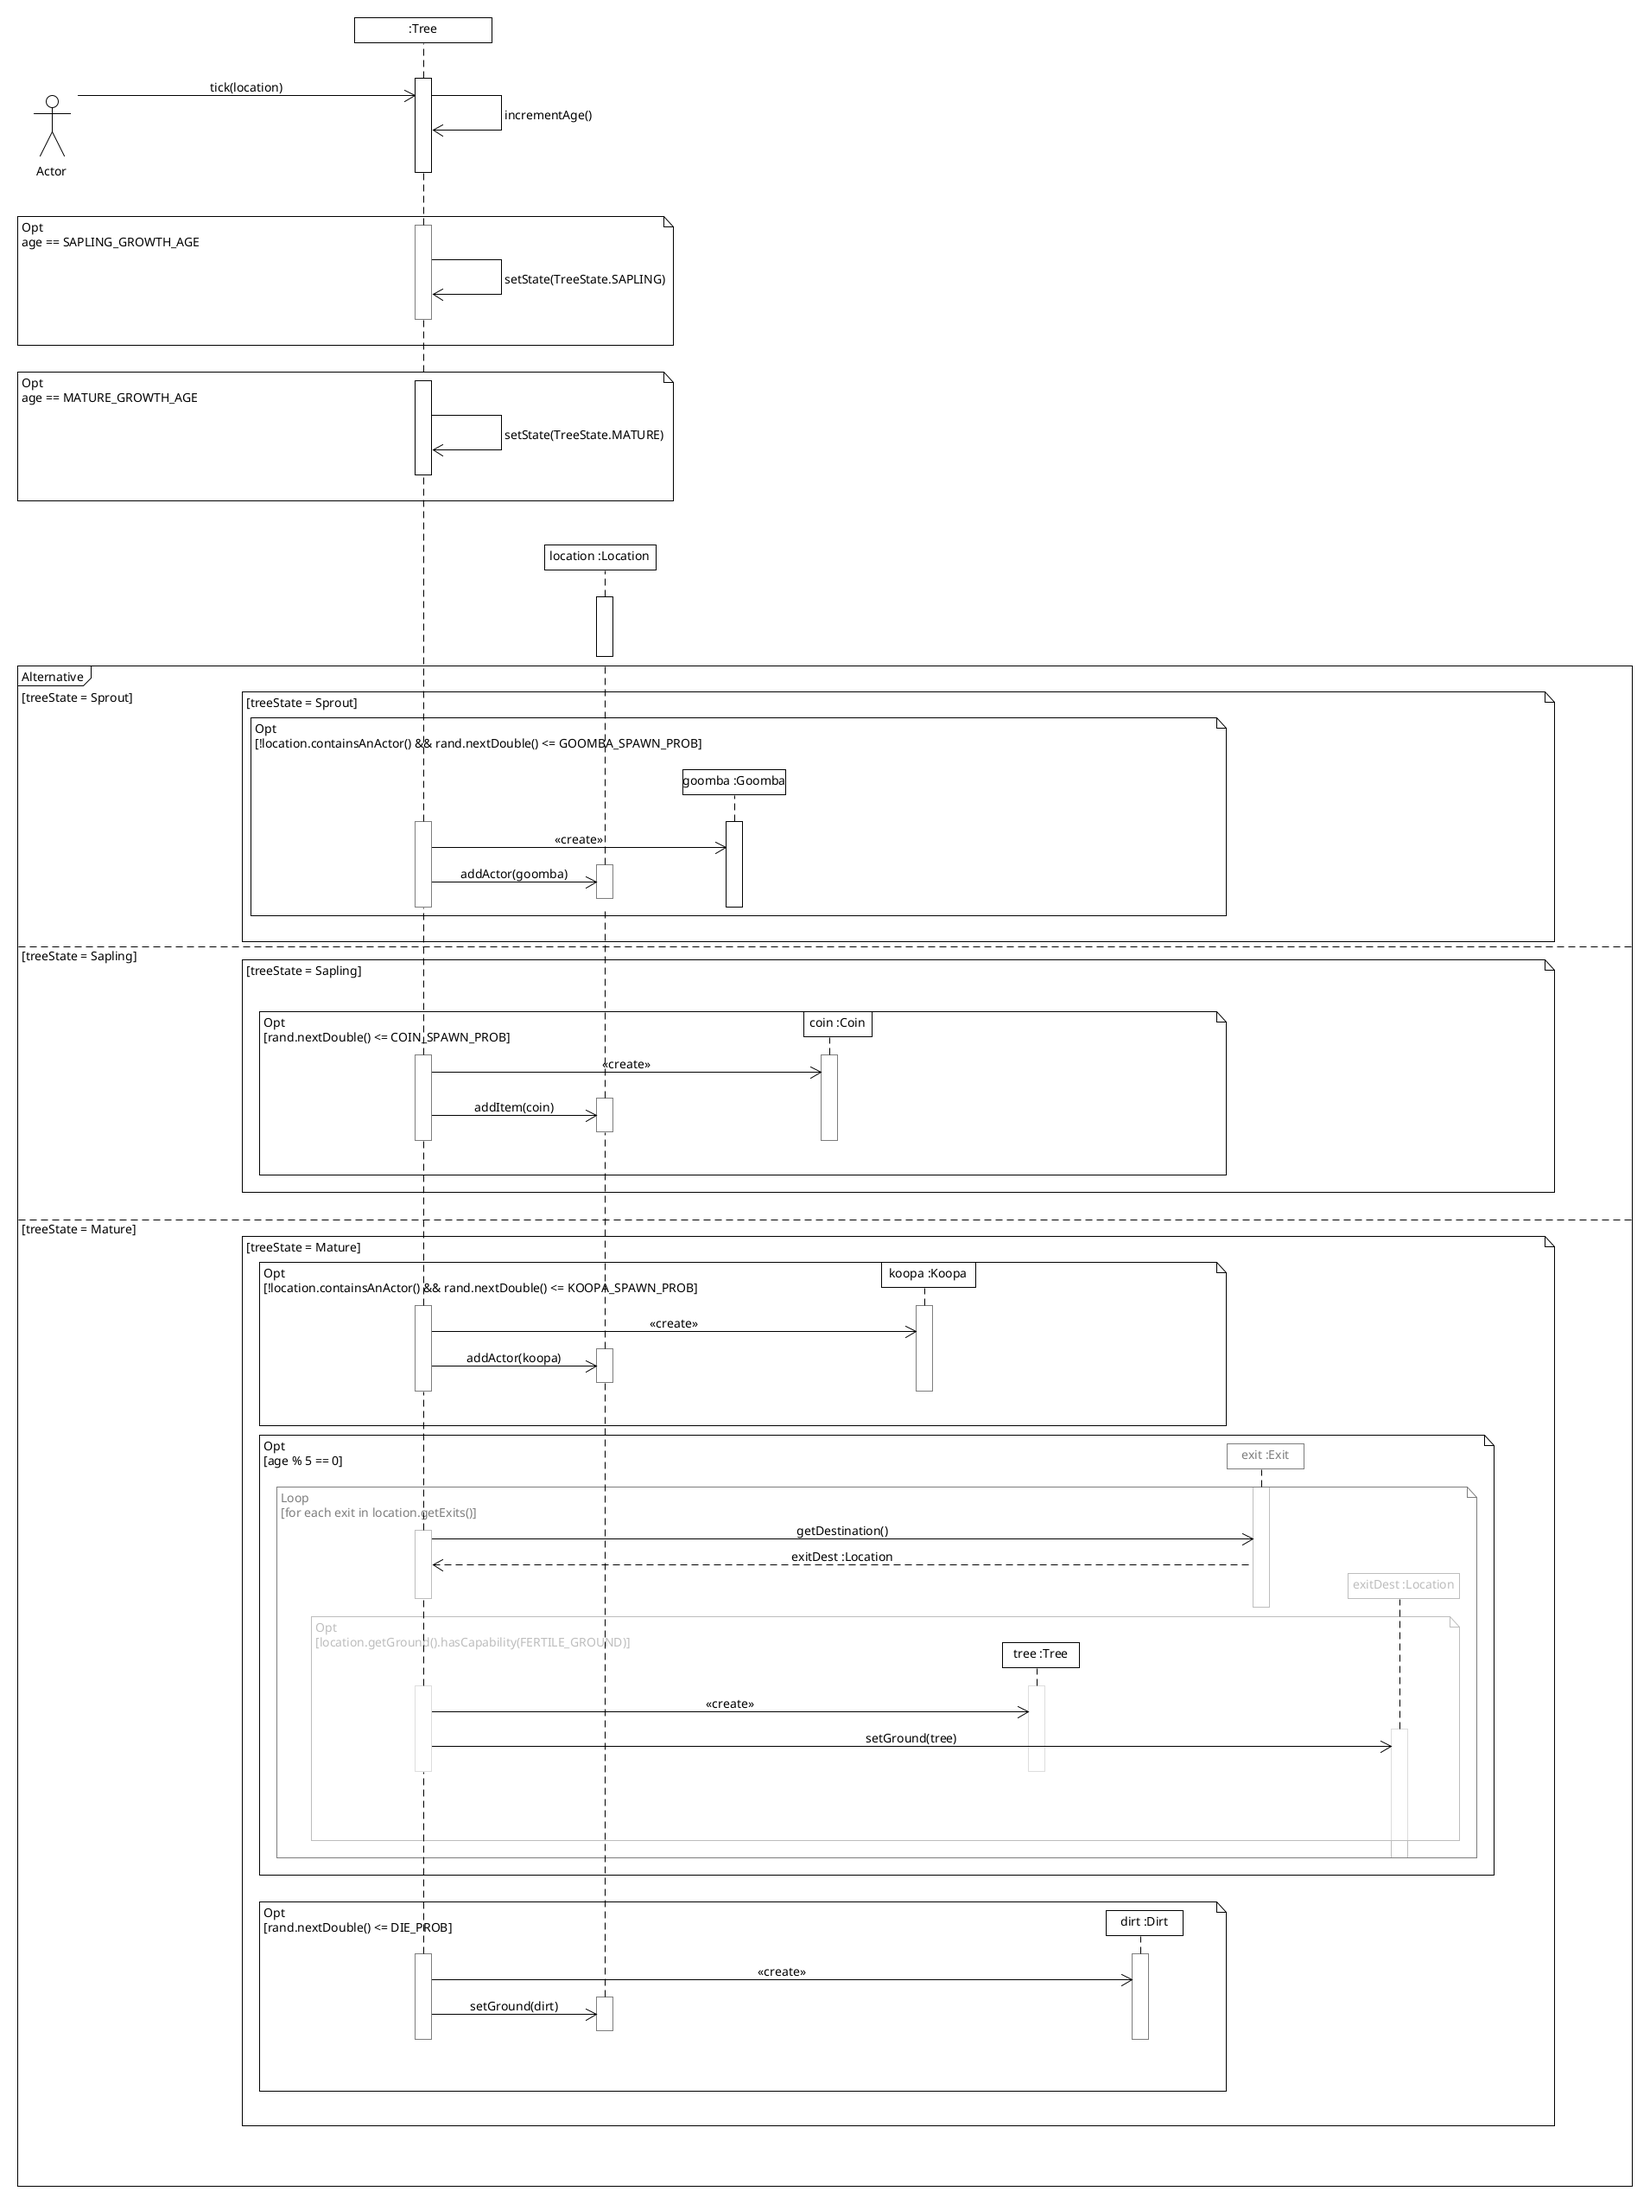
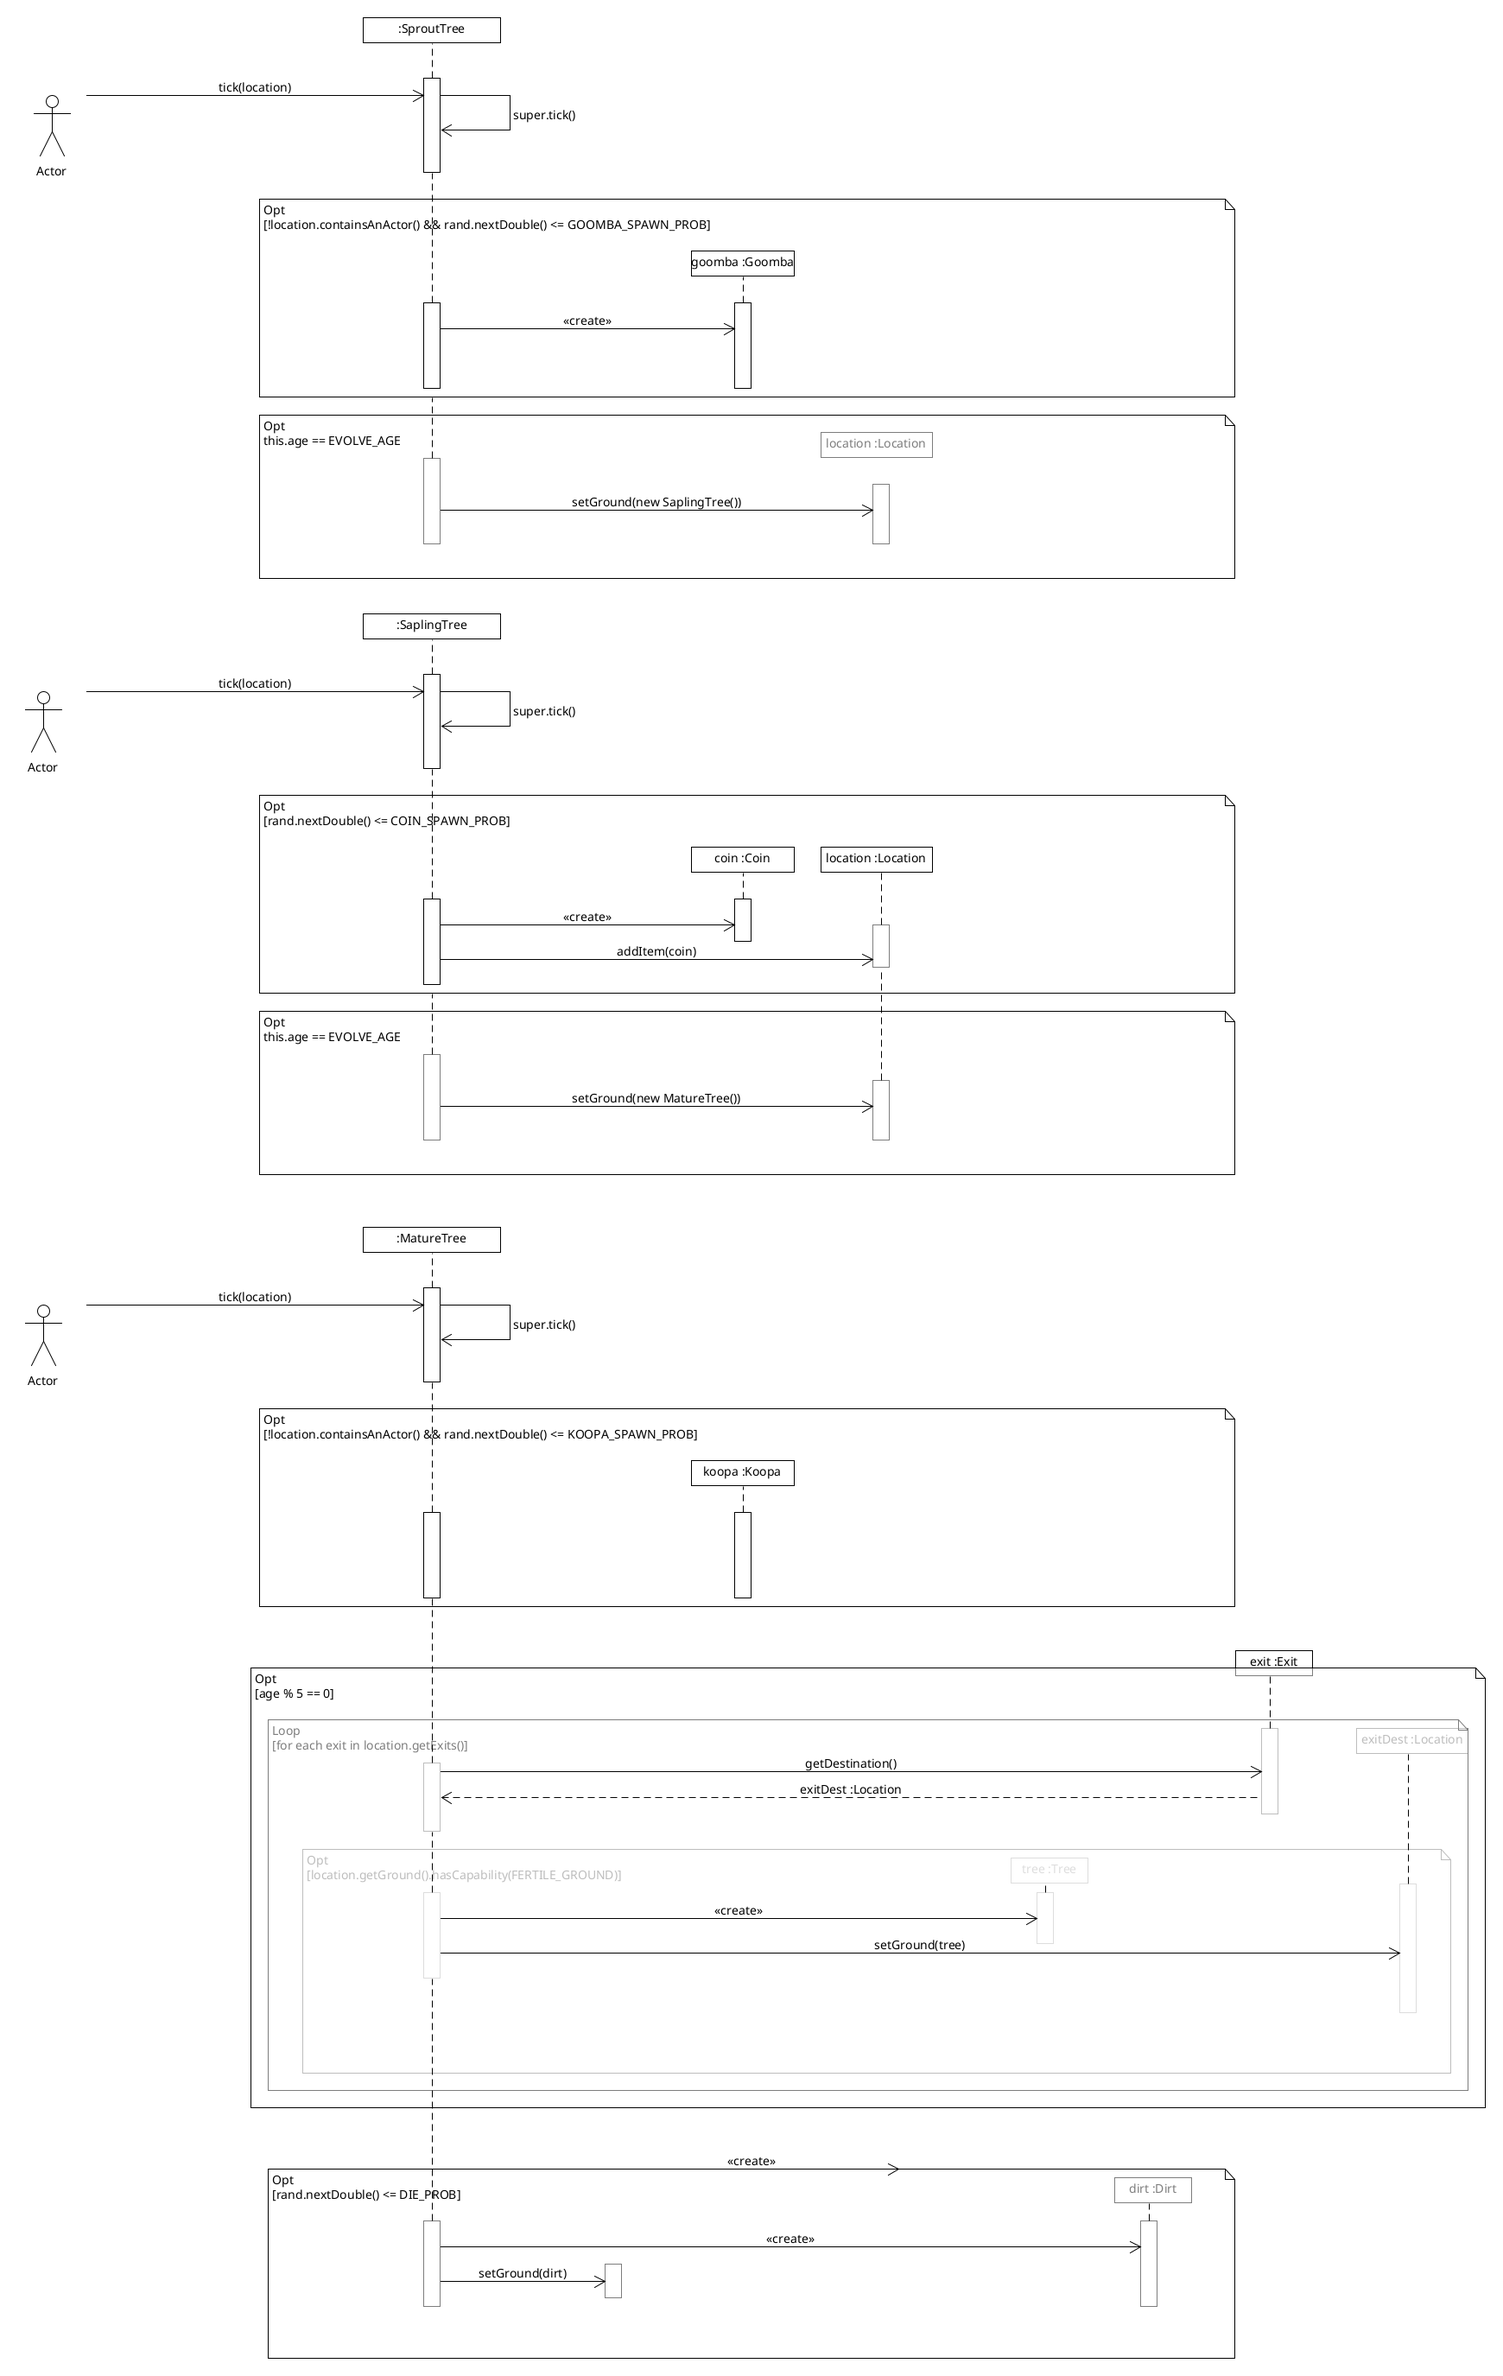
Updated design rationale to reflect new Tree classes, and added comment on ISP.

diff --git a/design-docs/REQ1_DesignRationale.md b/design-docs/REQ1_DesignRationale.md
@@ -98,7 +98,7 @@ status to see if it is possible to add money to wallet of the actor or not. An
 example would be perhaps if there was a debuff to cause Mario not to be able to
 pick up any coins for X amount of turns.
 
-### Design of Tree
+### Design of Tree (OLD, see next section)
 
 Looking at the sequence diagram for the tree's `tick()` method, you can see how
 long it is with a lot of alternating logic on class communication depending on what
@@ -132,6 +132,16 @@ but the logic for the Sapling growing to a Mature tree would be in the Sapling c
 Hence, we use a TreeState enum to keep track of the tree's stage of growth
 instead.
 
+### Assignment 2 Design of Tree
+It was decided to go with the alternative approach with having separate classes, each extending the "Tree"  class,
+for the different stages of the tree. The drawbacks are outweighted by the simplicity this new design has by
+leveraging a Single Responsibility Principle, with each class being able to concentrate on its own logic for that 
+specific stage of the tree. For example, now although there are more classes, there are now less dependencies on a single
+class. Before, the Tree class needed to have a dependency on `Koopa`, `Goomba`, and `Coin` because it needed to spawn them.
+Now, the dependency can be kept on the specific stage that is required, for example only the `SproutTree` class needs
+to have a dependency on `Goomba`. The sequence diagrams for the tick() functions are a lot shorter and simpler now.
+
+### GroundCharacteristic
 The reason for a GroundCharacteristic enum is to check for fertile grounds
 on the surrounding. In the Dirt class (not pictured), the constructor would
 add the capability of it being FERTILE. This way, it would be easy to extend in

diff --git a/design-docs/REQ4_DesignRationale.md b/design-docs/REQ4_DesignRationale.md
@@ -57,4 +57,5 @@ didn't go with this approach is because
    classes! Perhaps the best we can do is create a class called
    ConsumableDrinkableItem and inherit from that instead, and you can see how this would get messy very
    quickly as we add other types of item classes, and not having a base type we
-   can use, for example in the ConsumeAction class.
+   can use, for example in the ConsumeAction class. This would adhere to the Interface Segregation Principle, where the
+large interface of "DrinkableConsumableItem" is split into smaller ones called "ConsumableItem" and "DrinkableItem".
